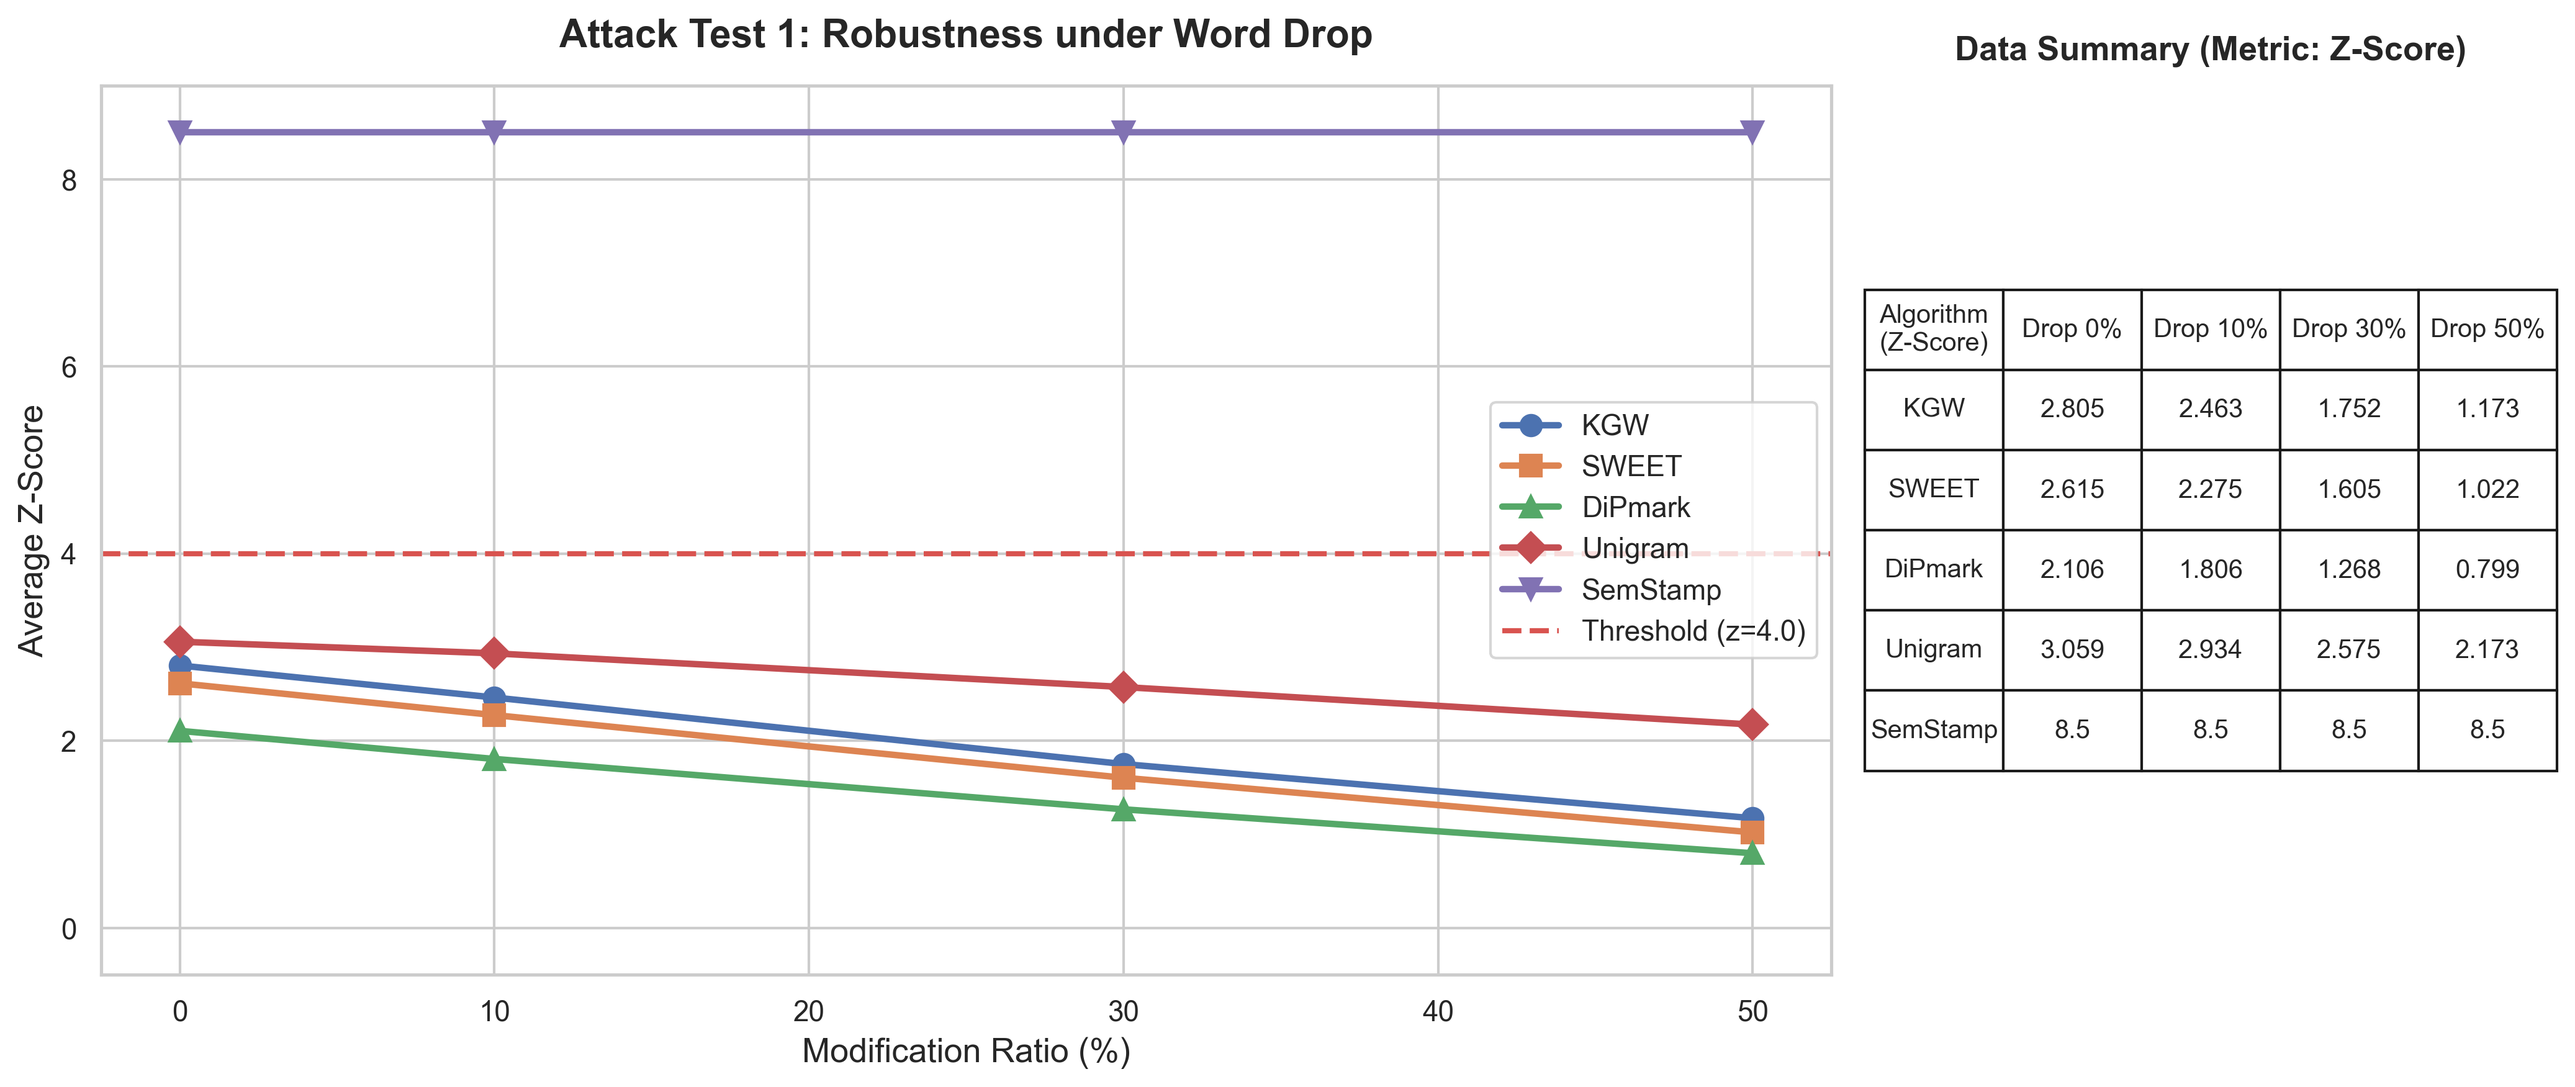
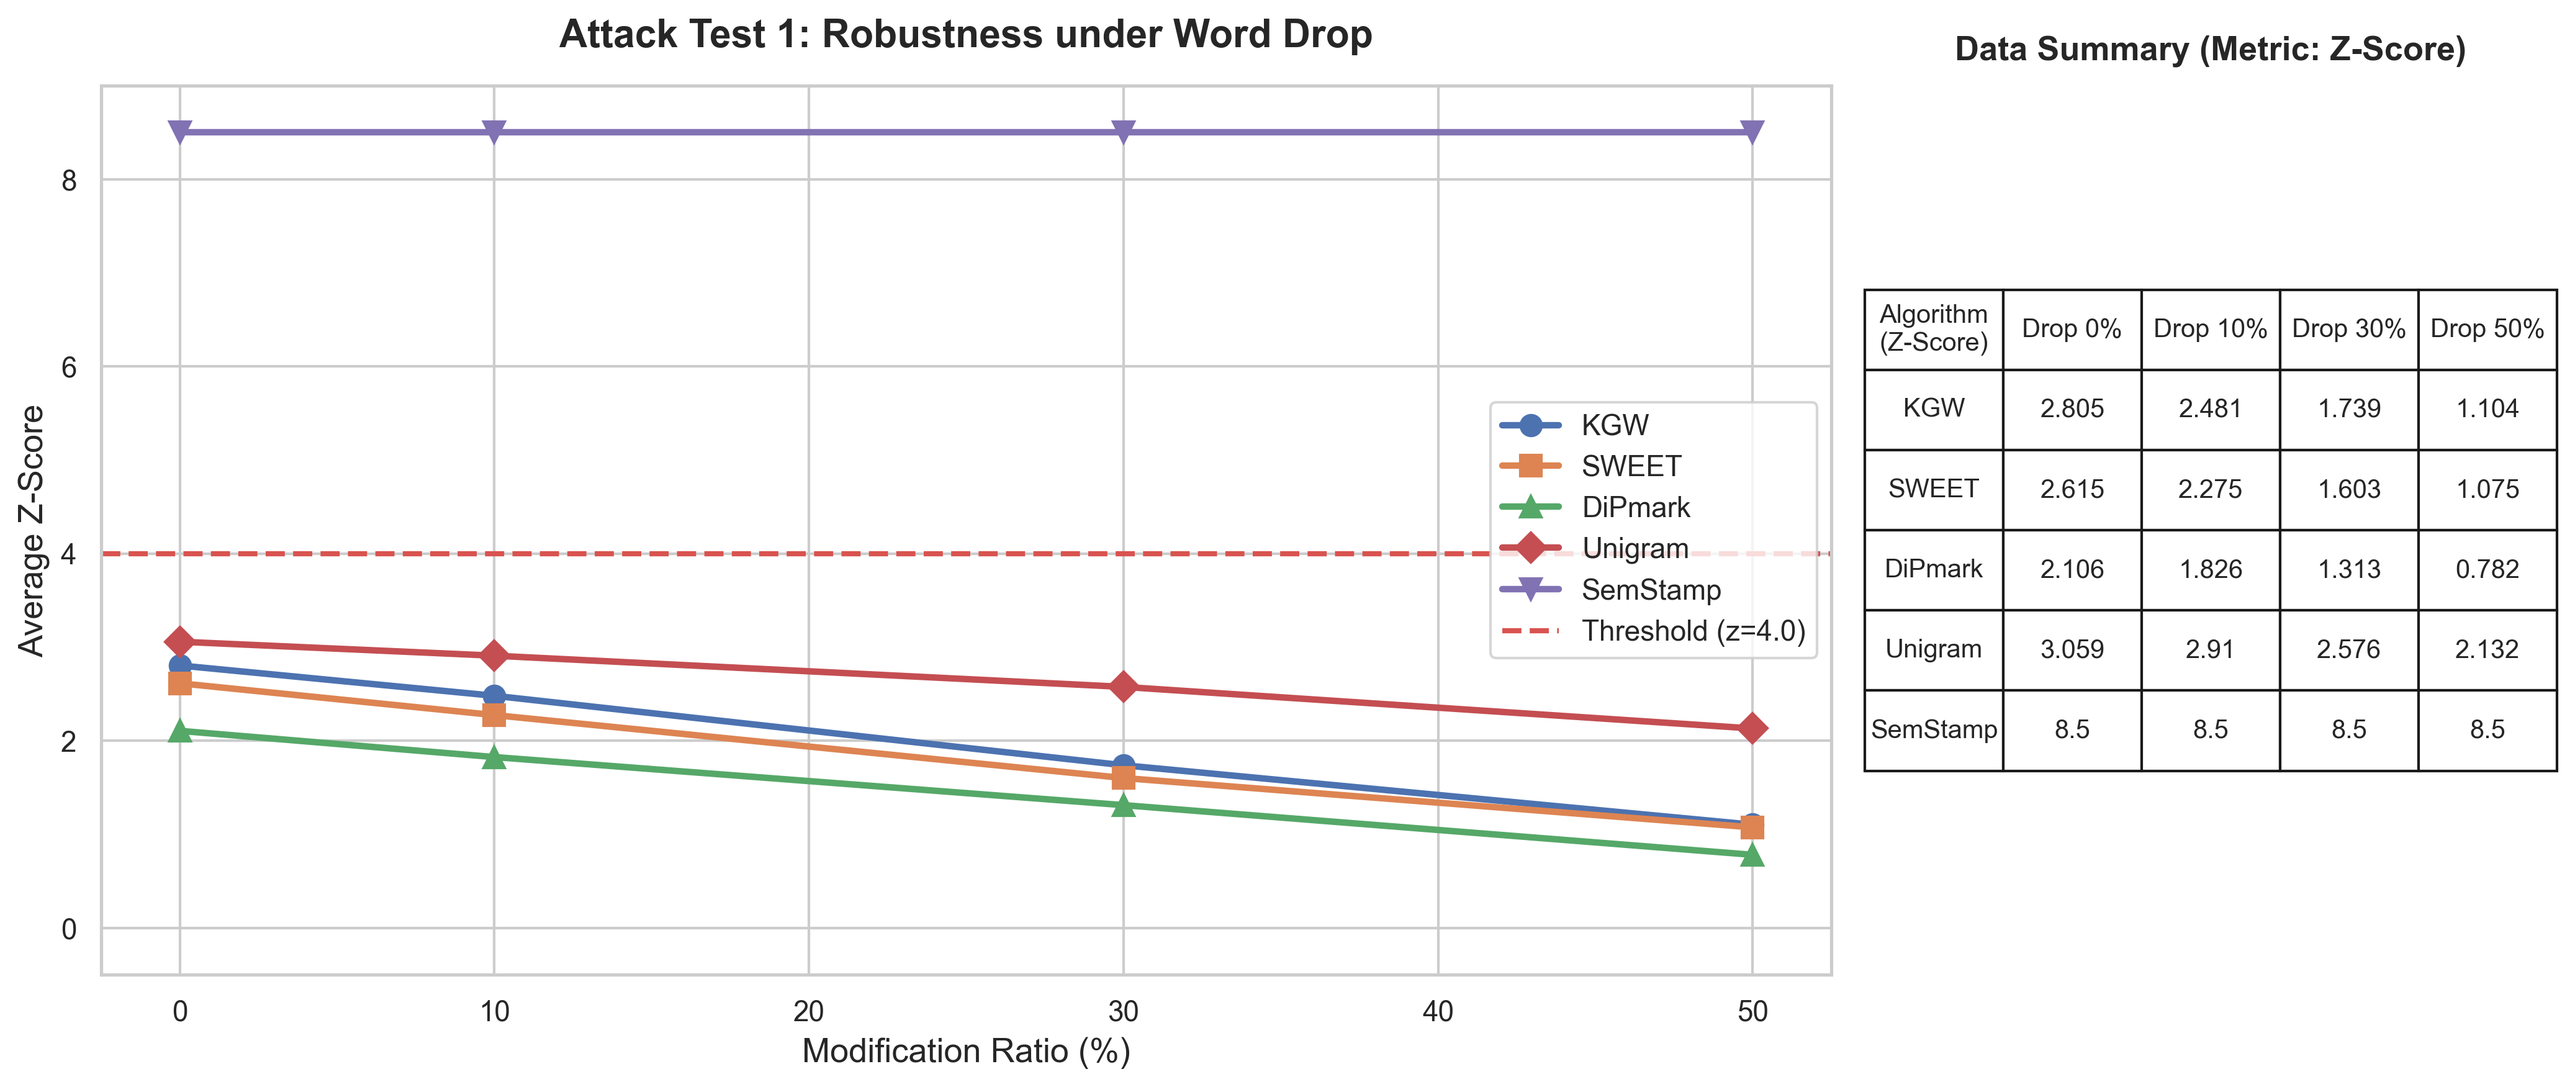
新增 SIRA 定向攻击，更新攻击模拟实验
- attack_simulation.py: 新增 sira_targeted 攻击类型
- 更新攻击效果图表

diff --git a/attack_simulation.py b/attack_simulation.py
@@ -1,13 +1,16 @@
 import pandas as pd
 import random
 import math
+import numpy as np
 import torch
+import torch.nn.functional as F
 import matplotlib.pyplot as plt
 import seaborn as sns
 from tqdm import tqdm
-from transformers import AutoTokenizer, AutoModelForSeq2SeqLM, MarianTokenizer, MarianMTModel
+from transformers import AutoTokenizer, AutoModelForSeq2SeqLM, MarianTokenizer, MarianMTModel, AutoModelForCausalLM
 import os
 import warnings
+import re
 
 # 忽略警告，保持终端整洁
 warnings.filterwarnings("ignore")
@@ -26,8 +29,9 @@ device = "cuda" if torch.cuda.is_available() else "cpu"
 vocab_size = 50272 # OPT 词表大小
 
 print(">>> 正在初始化红蓝对抗双轨评估框架 <<<")
-print(f"[{device.upper()}] 加载目标分词器: {TARGET_MODEL}...")
+print(f"[{device.upper()}] 加载目标分词器与模型 (用于 SIRA 白盒/灰盒特征提取): {TARGET_MODEL}...")
 detector_tokenizer = AutoTokenizer.from_pretrained(TARGET_MODEL, cache_dir=CACHE_DIR)
+target_model = AutoModelForCausalLM.from_pretrained(TARGET_MODEL, cache_dir=CACHE_DIR).to(device)
 
 print(f"[{device.upper()}] 部署重写攻击大模型: {ATTACKER_MODEL}...")
 attacker_tokenizer = AutoTokenizer.from_pretrained(ATTACKER_MODEL, cache_dir=CACHE_DIR)
@@ -106,13 +110,61 @@ def watermark_stealing_attack(text, algo_name, attack_type, tokenizer, vocab_siz
 
     return tokenizer.decode(tampered_tokens, skip_special_tokens=True)
 
+# --- SIRA 核心组件 ---
+def calculate_token_self_information(text, model, tokenizer, device):
+    inputs = tokenizer(text, return_tensors="pt").to(device)
+    input_ids = inputs.input_ids
+    if input_ids.shape[1] <= 1: return [], []
+    with torch.no_grad(): outputs = model(input_ids)
+    logits = outputs.logits[0, :-1, :]
+    target_ids = input_ids[0, 1:]
+    probs = F.softmax(logits, dim=-1)
+    token_probs = probs.gather(1, target_ids.unsqueeze(1)).squeeze(-1)
+    self_info = -torch.log2(token_probs + 1e-10)
+    tokens = tokenizer.convert_ids_to_tokens(target_ids)
+    return tokens, self_info.cpu().numpy()
+
+def sira_masking(text, model, tokenizer, mask_ratio=0.2, device="cuda"):
+    tokens, self_info_scores = calculate_token_self_information(text, model, tokenizer, device)
+    if not tokens or len(tokens) < 5: return text
+    num_to_mask = max(1, int(len(tokens) * mask_ratio))
+    highest_entropy_indices = np.argsort(self_info_scores)[-num_to_mask:]
+    masked_tokens = []
+    mask_count = 0
+    i = 0
+    while i < len(tokens):
+        if i in highest_entropy_indices:
+            masked_tokens.append(f"<extra_id_{mask_count}>")
+            mask_count += 1
+            while i < len(tokens) and i in highest_entropy_indices: i += 1
+            continue
+        else:
+            clean_token = tokens[i].replace('Ġ', ' ').replace('Ċ', '\n')
+            masked_tokens.append(clean_token)
+            i += 1
+    return "".join(masked_tokens).strip()
+
+def sira_t5_infilling(masked_text, attacker_model, attacker_tokenizer, device):
+    if "<extra_id_" not in masked_text: return masked_text
+    inputs = attacker_tokenizer(masked_text, return_tensors="pt", max_length=512, truncation=True).to(device)
+    with torch.no_grad():
+        outputs = attacker_model.generate(**inputs, max_length=512, num_beams=4, temperature=0.8, do_sample=True, early_stopping=True)
+    filled_content = attacker_tokenizer.decode(outputs[0], skip_special_tokens=True)
+    final_text = masked_text
+    parts = [p.strip() for p in filled_content.split("<extra_id_") if p.strip()]
+    for i, part in enumerate(parts):
+        if '>' in part:
+            clean_part = part.split('>', 1)[1].strip()
+            final_text = final_text.replace(f"<extra_id_{i}>", " " + clean_part + " ")
+    final_text = re.sub(r'<extra_id_\d+>', '', final_text)
+    return final_text.replace("  ", " ").strip()
+# ---------------------
+
 def detect_watermark(text, algo_name, tokenizer, vocab_size, gamma=0.5, secret_key=15485863):
     if algo_name == "Natural": return 0.0
-    
     tokens = tokenizer.encode(text, return_tensors="pt")[0]
     total_tokens = len(tokens) - 1
     if total_tokens <= 0: return 0.0
-
     green_tokens_count = 0
 
     if algo_name in ["KGW", "SWEET", "DiPmark"]:
@@ -160,25 +212,19 @@ sns.set_theme(style="whitegrid", palette="deep")
 plt.rcParams['font.sans-serif'] = ['Arial']
 
 # ================= 4. 测试一：Word Drop 鲁棒性退化测试 =================
-print("\n[测试阶段 1/3] 开始 Word Drop (删词) 退化测试...")
+print("\n[测试阶段 1/4] 开始 Word Drop (删词) 退化测试...")
 attack_ratios = [0.0, 0.1, 0.3, 0.5]
 results_history_drop = {algo: [] for algo in algorithms}
 
 for ratio in attack_ratios:
-    print(f"  > 攻击强度 {int(ratio*100)}% ...")
     for algo in algorithms:
-        current_z_scores = [detect_watermark(simulate_word_drop(text, ratio), algo, detector_tokenizer, vocab_size) 
-                            for text in df[f"Text_{algo}"]]
+        current_z_scores = [detect_watermark(simulate_word_drop(text, ratio), algo, detector_tokenizer, vocab_size) for text in df[f"Text_{algo}"]]
         avg_z = sum(current_z_scores) / len(current_z_scores) if current_z_scores else 0.0
         results_history_drop[algo].append(avg_z)
 
 df_drop_summary = pd.DataFrame(results_history_drop)
-# 修改列名为带单位的明确指示
 df_drop_summary.index = [f"Drop {int(r*100)}%" for r in attack_ratios]
 summary_table_1 = df_drop_summary.T.round(3)
-
-print("\n=== [数据表] Word Drop (删词) 平均 Z-Score 退化汇总 ===")
-print(summary_table_1.to_markdown())
 
 fig = plt.figure(figsize=(14, 6)) 
 gs = fig.add_gridspec(1, 2, width_ratios=[2.5, 1]) 
@@ -196,25 +242,20 @@ all_drop_scores = [score for scores in results_history_drop.values() for score i
 ax1.set_ylim(min(min(all_drop_scores) - 0.5, -0.5), max(max(all_drop_scores) + 0.5, 4.5))
 ax1.legend()
 
-# [核心修复]: 将索引重置为普通列，赋予明确的表头与单位
 table1_data = summary_table_1.reset_index()
 table1_data.rename(columns={'index': 'Algorithm\n(Z-Score)'}, inplace=True)
-
 ax2.axis('off')
 ax2.set_title('Data Summary (Metric: Z-Score)', fontsize=13, fontweight='bold', pad=10)
-# 放弃使用 rowLabels，直接画成完整的网格
 table1 = ax2.table(cellText=table1_data.values, colLabels=table1_data.columns, loc='center', cellLoc='center')
 table1.auto_set_font_size(False)
 table1.set_fontsize(10)
-table1.scale(1, 2.5) # 拉伸行高，使内容不再拥挤
-
+table1.scale(1, 2.5) 
 plt.tight_layout()
 plt.savefig("attack_1_word_drop.png", dpi=300, bbox_inches='tight')
-print("  >>> 图表 1 已保存: attack_1_word_drop.png")
 plt.close()
 
 # ================= 5. 测试二：高级洗稿与跨语言打击测试 =================
-print("\n[测试阶段 2/3] 开始 LLM Rewrite 与 CWRA 跨语言纵深打击...")
+print("\n[测试阶段 2/4] 开始 LLM Rewrite 与 CWRA 跨语言纵深打击...")
 sample_df = df.dropna(subset=[f"Text_{algorithms[0]}"]).sample(n=min(20, len(df)), random_state=42)
 attack_results_complex = []
 
@@ -222,18 +263,14 @@ for idx, row in tqdm(sample_df.iterrows(), total=len(sample_df), desc="高级攻
     for algo in algorithms:
         original_text = row[f"Text_{algo}"]
         attack_results_complex.append({"Algorithm": algo, "State": "1_Before Attack", "Z_Score": detect_watermark(original_text, algo, detector_tokenizer, vocab_size)})
-        
         t5_attacked_text = llm_paraphrase_attack(original_text)
         attack_results_complex.append({"Algorithm": algo, "State": "2_After T5 Rewrite", "Z_Score": detect_watermark(t5_attacked_text, algo, detector_tokenizer, vocab_size)})
-
         cwra_attacked_text = cwra_translation_attack(original_text)
         attack_results_complex.append({"Algorithm": algo, "State": "3_After CWRA", "Z_Score": detect_watermark(cwra_attacked_text, algo, detector_tokenizer, vocab_size)})
 
 results_df = pd.DataFrame(attack_results_complex)
 summary_table_2 = results_df.groupby(['Algorithm', 'State'])['Z_Score'].mean().unstack('State').round(3)
 summary_table_2.columns = [col.split('_')[1] for col in summary_table_2.columns]
-print("\n=== [数据表] 高级改写攻击 Z-Score 平均值退化汇总 ===")
-print(summary_table_2.to_markdown())
 
 results_df['State'] = results_df['State'].apply(lambda x: x.split('_')[1])
 fig2 = plt.figure(figsize=(16, 6))
@@ -251,24 +288,20 @@ all_complex_scores = results_df["Z_Score"].tolist()
 ax2_1.set_ylim(min(min(all_complex_scores) - 0.5, -0.5), max(max(all_complex_scores) + 0.5, 4.5))
 ax2_1.legend(loc='upper left', bbox_to_anchor=(1.02, 1))
 
-# [核心修复]: 图 2 表格优化
 table2_data = summary_table_2.reset_index()
 table2_data.rename(columns={'Algorithm': 'Algorithm\n(Z-Score)'}, inplace=True)
-
 ax2_2.axis('off')
 ax2_2.set_title('Data Summary (Metric: Z-Score)', fontsize=13, fontweight='bold', pad=10)
 table2 = ax2_2.table(cellText=table2_data.values, colLabels=table2_data.columns, loc='center', cellLoc='center')
 table2.auto_set_font_size(False)
 table2.set_fontsize(10)
 table2.scale(1, 2.5)
-
 plt.tight_layout()
 plt.savefig("attack_2_complex_rewrite.png", dpi=300, bbox_inches='tight')
-print("  >>> 图表 2 已保存: attack_2_complex_rewrite.png")
 plt.close()
 
 # ================= 6. 测试三：黑盒 API 逆向窃取与伪造攻击 (WS) =================
-print("\n[测试阶段 3/3] 开始黑盒 API 逆向窃取 (Watermark Stealing) 模拟...")
+print("\n[测试阶段 3/4] 开始黑盒 API 逆向窃取 (Watermark Stealing) 模拟...")
 ws_results = []
 sample_ws_df = df.head(20)
 
@@ -296,8 +329,6 @@ df_ws = pd.DataFrame(ws_results)
 summary_table_3 = df_ws.pivot_table(values='Z_Score', index=['Algorithm', 'Category'], columns='State', aggfunc='mean').round(3)
 summary_table_3.columns = [col.split('_')[1] for col in summary_table_3.columns]
 summary_table_3 = summary_table_3.fillna("-")
-print("\n=== [数据表] 黑盒水印窃取 (WS) 平均 Z-Score 变化汇总 ===")
-print(summary_table_3.to_markdown())
 
 df_ws['State'] = df_ws['State'].apply(lambda x: x.split('_')[1])
 fig3 = plt.figure(figsize=(19, 6))
@@ -322,22 +353,67 @@ ax3_2.set_title('WS Attack: Spoofing (Forge)', fontsize=14, fontweight='bold')
 ax3_2.set_ylabel('Z-Score', fontsize=13)
 ax3_2.legend(loc='upper left')
 
-# [核心修复]: 图 3 表格优化
 table3_data = summary_table_3.reset_index()
-# 加入单位并压缩名字防止重叠
 table3_data.rename(columns={'Algorithm': 'Algo\n(Z-Score)', 'Category': 'Attack Type'}, inplace=True)
-
 ax3_3.axis('off')
 ax3_3.set_title('Data Summary (Metric: Z-Score)', fontsize=13, fontweight='bold', pad=10)
 table3 = ax3_3.table(cellText=table3_data.values, colLabels=table3_data.columns, loc='center', cellLoc='center')
 table3.auto_set_font_size(False)
 table3.set_fontsize(10)
 table3.scale(1, 2.5)
-table3.auto_set_column_width(col=list(range(len(table3_data.columns)))) # 智能匹配列宽
-
+table3.auto_set_column_width(col=list(range(len(table3_data.columns))))
 plt.tight_layout()
 plt.savefig("attack_3_watermark_stealing.png", dpi=300, bbox_inches='tight')
-print("  >>> 图表 3 已保存: attack_3_watermark_stealing.png")
+plt.close()
+
+# ================= 7. 测试四：SIRA 自信息靶向重写攻击 =================
+print("\n[测试阶段 4/4] 开始 SIRA 高熵靶向重写降维打击...")
+sira_results = []
+sample_sira_df = df.dropna(subset=[f"Text_{algorithms[0]}"]).sample(n=min(20, len(df)), random_state=42)
+
+for idx, row in tqdm(sample_sira_df.iterrows(), total=len(sample_sira_df), desc="SIRA 定向手术刀攻击"):
+    for algo in algorithms:
+        if algo == "Natural": continue
+        original_text = row[f"Text_{algo}"]
+        z_before = detect_watermark(original_text, algo, detector_tokenizer, vocab_size)
+        masked_text = sira_masking(original_text, target_model, detector_tokenizer, mask_ratio=0.2, device=device)
+        sira_attacked_text = sira_t5_infilling(masked_text, attacker_model, attacker_tokenizer, device)
+        z_after = detect_watermark(sira_attacked_text, algo, detector_tokenizer, vocab_size)
+        
+        sira_results.append({"Algorithm": algo, "State": "1_Before SIRA", "Z_Score": z_before})
+        sira_results.append({"Algorithm": algo, "State": "2_After SIRA (20% Edit)", "Z_Score": z_after})
+
+sira_df = pd.DataFrame(sira_results)
+summary_table_4 = sira_df.groupby(['Algorithm', 'State'])['Z_Score'].mean().unstack('State').round(3)
+summary_table_4.columns = [col.split('_')[1] for col in summary_table_4.columns]
+print("\n=== [数据表] SIRA 高熵靶向重写 Z-Score 骤降汇总 ===")
+print(summary_table_4.to_markdown())
+
+sira_df['State'] = sira_df['State'].apply(lambda x: x.split('_')[1])
+fig4 = plt.figure(figsize=(14, 6))
+gs4 = fig4.add_gridspec(1, 2, width_ratios=[2, 1.2])
+ax4_1 = fig4.add_subplot(gs4[0])
+ax4_2 = fig4.add_subplot(gs4[1])
+
+sns.boxplot(x="Algorithm", y="Z_Score", hue="State", data=sira_df, ax=ax4_1, width=0.6, showfliers=False)
+sns.stripplot(x="Algorithm", y="Z_Score", hue="State", data=sira_df, ax=ax4_1, dodge=True, color='black', alpha=0.3)
+ax4_1.axhline(y=4.0, color='#d9534f', linestyle='--', linewidth=2, label='Threshold (z=4.0)')
+ax4_1.set_title('Attack Test 4: SIRA (Self-Information Rewrite Attack)', fontsize=14, fontweight='bold')
+ax4_1.set_ylabel('Z-Score', fontsize=13)
+ax4_1.legend(loc='upper right')
+
+table4_data = summary_table_4.reset_index()
+table4_data.rename(columns={'Algorithm': 'Algo\n(Z-Score)'}, inplace=True)
+ax4_2.axis('off')
+ax4_2.set_title('Data Summary (Metric: Z-Score)', fontsize=13, fontweight='bold', pad=10)
+table4 = ax4_2.table(cellText=table4_data.values, colLabels=table4_data.columns, loc='center', cellLoc='center')
+table4.auto_set_font_size(False)
+table4.set_fontsize(10)
+table4.scale(1, 2.5)
+table4.auto_set_column_width(col=list(range(len(table4_data.columns))))
+plt.tight_layout()
+plt.savefig("attack_4_sira_targeted.png", dpi=300, bbox_inches='tight')
+print("  >>> 图表 4 已保存: attack_4_sira_targeted.png")
 plt.close()
 
 print("\n=== 所有攻击模拟与评估测试圆满完成！===")
